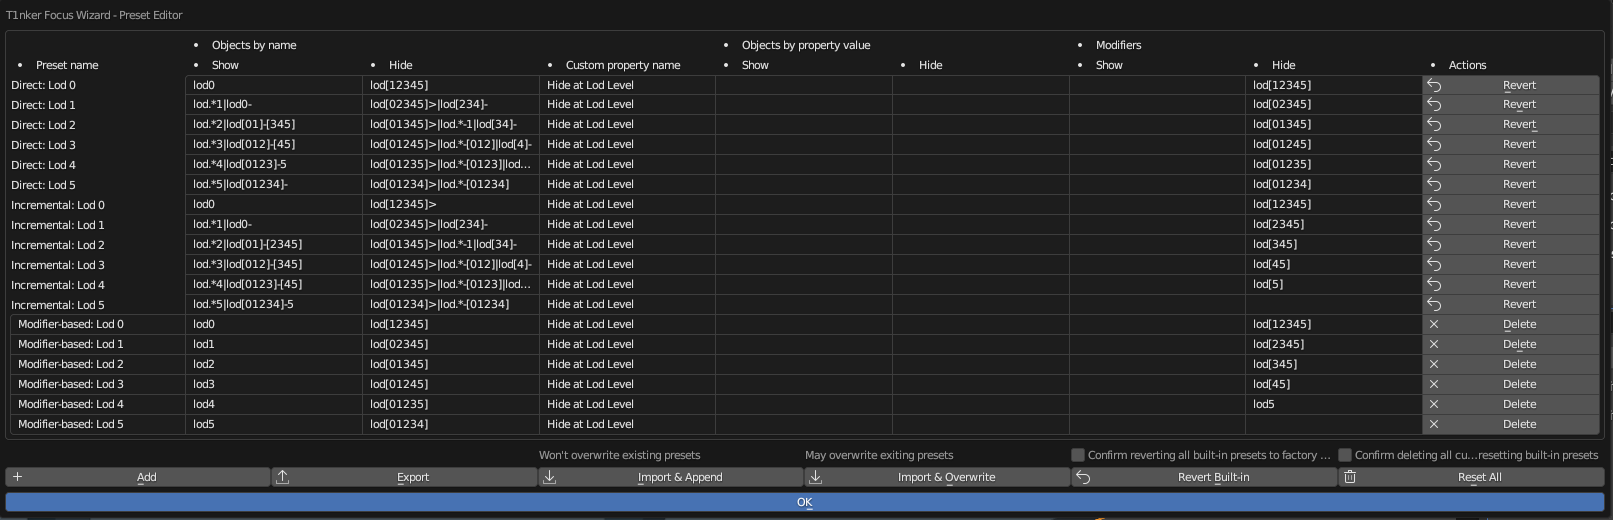
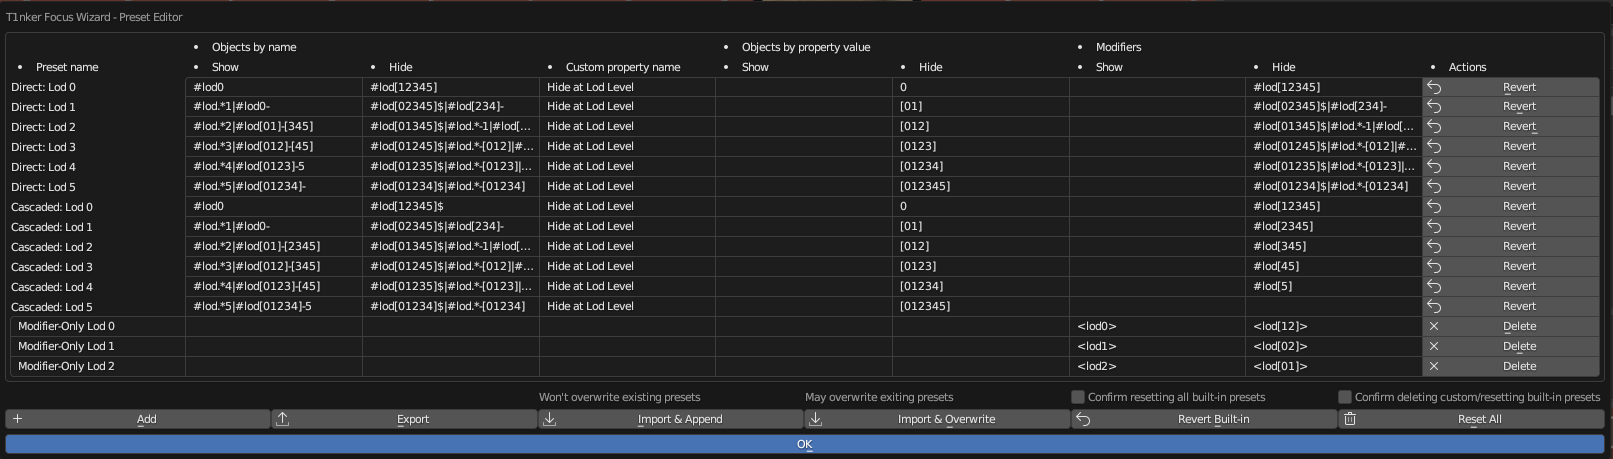
Direct modifier rules enchanced, docs updated

diff --git a/presetManager.py b/presetManager.py
@@ -59,6 +59,7 @@ from typing import List, Set
 import bpy
 import json
 import os.path
+import copy
 from bpy.props import StringProperty, BoolProperty, EnumProperty, CollectionProperty
 from bpy.types import Context, Panel, Operator, AddonPreferences, PropertyGroup, PointerProperty
 
@@ -347,7 +348,7 @@ class PresetDefinition:
     def __init__(
         self,
         builtIn: bool = True,
-        name: str = "", 
+        presetName: str = "", 
         oShow: str = "", 
         oHide: str = "", 
         pName: str = "", 
@@ -360,7 +361,7 @@ class PresetDefinition:
         Args:
             builtIn (bool, optional): Tells whether this preset is a built-in or custom one. The name of built-in presets cannot be changed. Built-in presets can be reverted to factory state. Defaults to True.
             
-            name (str, optional): The (unique) name of the preset. If the name is not unique, behavior is up to Blender. It may choose the first object with the same name, but don't take it as granted and don't rely on this assumptions. Defaults to "".
+            presetName (str, optional): The (unique) name of the preset. If the name is not unique, behavior is up to Blender. It may choose the first object with the same name, but don't take it as granted and don't rely on this assumptions. Defaults to "".
             
             oShow (str, optional): Objects within the scope and with a name matching this pattern will be made visible. An empty string means all objects in the scope will be made visible. Defaults to "".
             
@@ -379,7 +380,7 @@ class PresetDefinition:
         # Keep doc strings in one line as VS Code only displays one line of text for an argument
         
         self.builtIn = builtIn
-        self.name = name
+        self.presetName = presetName
         self.objectsToShowByName = oShow
         self.objectsToHideByName = oHide
         self.propertyName = pName
@@ -505,21 +506,22 @@ class T1NKER_OT_FocusWizardPresetOperations(Operator):
             
     presetDefinitions = [
         # Presets with direct reference to lod levels (modifier set for lod n shall not be visible for other lod levels)
-        # Expects lod levels be indicated in the form of /lodn/ or /lodn-m/
-        PresetDefinition(name = "Direct: Lod 0", oShow = "lod0",                    oHide = "lod[12345]",                        pName = "Hide at Lod Level",    pShow = "",     pHide = "0",        mShow = "",     mHide = "lod[12345]"),
-        PresetDefinition(name = "Direct: Lod 1", oShow = "lod.*1|lod0-",            oHide = "lod[02345]>|lod[234]-",             pName = "Hide at Lod Level",    pShow = "",     pHide = "[01]",     mShow = "",     mHide = "lod[02345]"),
-        PresetDefinition(name = "Direct: Lod 2", oShow = "lod.*2|lod[01]-[345]",    oHide = "lod[01345]>|lod.*-1|lod[34]-",      pName = "Hide at Lod Level",    pShow = "",     pHide = "[012]",    mShow = "",     mHide = "lod[01345]"),
-        PresetDefinition(name = "Direct: Lod 3", oShow = "lod.*3|lod[012]-[45]",    oHide = "lod[01245]>|lod.*-[012]|lod[4]-",   pName = "Hide at Lod Level",    pShow = "",     pHide = "[0123]",   mShow = "",     mHide = "lod[01245]"),
-        PresetDefinition(name = "Direct: Lod 4", oShow = "lod.*4|lod[0123]-5",      oHide = "lod[01235]>|lod.*-[0123]|lod[4]-",  pName = "Hide at Lod Level",    pShow = "",     pHide = "[01234]",  mShow = "",     mHide = "lod[01235]"),
-        PresetDefinition(name = "Direct: Lod 5", oShow = "lod.*5|lod[01234]-",      oHide = "lod[01234]>|lod.*-[01234]",         pName = "Hide at Lod Level",    pShow = "",     pHide = "[012345]", mShow = "",     mHide = "lod[01234]"),
+        # Expects lod levels be indicated in the form of #lodn or #lodn-m as trailing parts of names for objects, and #lodn for modifiers
+        PresetDefinition(presetName = "Direct: Lod 0", oShow = "#lod0",                   oHide = "#lod[12345]",                          pName = "Hide at Lod Level",    pShow = "",     pHide = "0",        mShow = "",     mHide = "#lod[12345]"),
+        PresetDefinition(presetName = "Direct: Lod 1", oShow = "#lod.*1|#lod0-",          oHide = "#lod[02345]$|#lod[234]-",              pName = "Hide at Lod Level",    pShow = "",     pHide = "[01]",     mShow = "",     mHide = "#lod[02345]$|#lod[234]-"),
+        PresetDefinition(presetName = "Direct: Lod 2", oShow = "#lod.*2|#lod[01]-[345]",  oHide = "#lod[01345]$|#lod.*-1|#lod[34]-",      pName = "Hide at Lod Level",    pShow = "",     pHide = "[012]",    mShow = "",     mHide = "#lod[01345]$|#lod.*-1|#lod[34]-"),
+        PresetDefinition(presetName = "Direct: Lod 3", oShow = "#lod.*3|#lod[012]-[45]",  oHide = "#lod[01245]$|#lod.*-[012]|#lod[4]-",   pName = "Hide at Lod Level",    pShow = "",     pHide = "[0123]",   mShow = "",     mHide = "#lod[01245]$|#lod.*-[012]|#lod[4]-"),
+        PresetDefinition(presetName = "Direct: Lod 4", oShow = "#lod.*4|#lod[0123]-5",    oHide = "#lod[01235]$|#lod.*-[0123]|#lod[4]-",  pName = "Hide at Lod Level",    pShow = "",     pHide = "[01234]",  mShow = "",     mHide = "#lod[01235]$|#lod.*-[0123]|#lod[4]-"),
+        PresetDefinition(presetName = "Direct: Lod 5", oShow = "#lod.*5|#lod[01234]-",    oHide = "#lod[01234]$|#lod.*-[01234]",          pName = "Hide at Lod Level",    pShow = "",     pHide = "[012345]", mShow = "",     mHide = "#lod[01234]$|#lod.*-[01234]"),
         
-        # Presets with incremental reference to lod levels (modifier set for lod n shall be visible for n and n+ levels)
-        PresetDefinition(name = "Incremental: Lod 0", oShow = "lod0",                     oHide = "lod[12345]>",                       pName = "Hide at Lod Level",    pShow = "",     pHide = "0",        mShow = "",  mHide = "lod[12345]"),
-        PresetDefinition(name = "Incremental: Lod 1", oShow = "lod.*1|lod0-",             oHide = "lod[02345]>|lod[234]-",             pName = "Hide at Lod Level",    pShow = "",     pHide = "[01]",     mShow = "",  mHide = "lod[2345]"),
-        PresetDefinition(name = "Incremental: Lod 2", oShow = "lod.*2|lod[01]-[2345]",    oHide = "lod[01345]>|lod.*-1|lod[34]-",      pName = "Hide at Lod Level",    pShow = "",     pHide = "[012]",    mShow = "",  mHide = "lod[345]"),
-        PresetDefinition(name = "Incremental: Lod 3", oShow = "lod.*3|lod[012]-[345]",    oHide = "lod[01245]>|lod.*-[012]|lod[4]-",   pName = "Hide at Lod Level",    pShow = "",     pHide = "[0123]",   mShow = "",  mHide = "lod[45]"),
-        PresetDefinition(name = "Incremental: Lod 4", oShow = "lod.*4|lod[0123]-[45]",    oHide = "lod[01235]>|lod.*-[0123]|lod[4]-",  pName = "Hide at Lod Level",    pShow = "",     pHide = "[01234]",  mShow = "",  mHide = "lod[5]"),
-        PresetDefinition(name = "Incremental: Lod 5", oShow = "lod.*5|lod[01234]-5",      oHide = "lod[01234]>|lod.*-[01234]",         pName = "Hide at Lod Level",    pShow = "",     pHide = "[012345]", mShow = "",  mHide = ""),
+        # Presets with cascaded reference to lod levels (modifier set for lod n shall be visible for n and n+ levels)
+        # Expects lod levels be indicated in the form of #lodn or #lodn-m as trailing parts of names for objects, and #lodn for modifiers
+        PresetDefinition(presetName = "Cascaded: Lod 0", oShow = "#lod0",                     oHide = "#lod[12345]$",                         pName = "Hide at Lod Level",    pShow = "",     pHide = "0",        mShow = "",  mHide = "#lod[12345]"),
+        PresetDefinition(presetName = "Cascaded: Lod 1", oShow = "#lod.*1|#lod0-",            oHide = "#lod[02345]$|#lod[234]-",              pName = "Hide at Lod Level",    pShow = "",     pHide = "[01]",     mShow = "",  mHide = "#lod[2345]"),
+        PresetDefinition(presetName = "Cascaded: Lod 2", oShow = "#lod.*2|#lod[01]-[2345]",   oHide = "#lod[01345]$|#lod.*-1|#lod[34]-",      pName = "Hide at Lod Level",    pShow = "",     pHide = "[012]",    mShow = "",  mHide = "#lod[345]"),
+        PresetDefinition(presetName = "Cascaded: Lod 3", oShow = "#lod.*3|#lod[012]-[345]",   oHide = "#lod[01245]$|#lod.*-[012]|#lod[4]-",   pName = "Hide at Lod Level",    pShow = "",     pHide = "[0123]",   mShow = "",  mHide = "#lod[45]"),
+        PresetDefinition(presetName = "Cascaded: Lod 4", oShow = "#lod.*4|#lod[0123]-[45]",   oHide = "#lod[01235]$|#lod.*-[0123]|#lod[4]-",  pName = "Hide at Lod Level",    pShow = "",     pHide = "[01234]",  mShow = "",  mHide = "#lod[5]"),
+        PresetDefinition(presetName = "Cascaded: Lod 5", oShow = "#lod.*5|#lod[01234]-5",     oHide = "#lod[01234]$|#lod.*-[01234]",          pName = "Hide at Lod Level",    pShow = "",     pHide = "[012345]", mShow = "",  mHide = ""),
     ]
     """
     Definitions of the built-in presets in the form of `PresetDefinition`.
@@ -590,8 +592,24 @@ class T1NKER_OT_FocusWizardPresetOperations(Operator):
         
         presets = context.scene.t1nkrFocusWizardSettings.presets
         
-        # Save custom presets
-        customPresets = [p for p in presets if p.builtIn == False]
+        # Save custom presets. Cloning with copy.copy() doesn't work, but we need a copy or presets.clear()
+        # a bit later deletes items 
+        customPresets = []
+        for customPreset in [preset for preset in presets if preset.builtIn == False]:
+            preset = PresetDefinition( 
+                builtIn = False,                
+                presetName = customPreset.presetName,
+                oShow = customPreset.objectsToShowByName,
+                oHide = customPreset.objectsToHideByName,
+                pName = customPreset.propertyName,
+                pShow = customPreset.propertyValueForShowing,
+                pHide = customPreset.propertyValueForHiding,
+                mShow = customPreset.modifiersToShow,
+                mHide = customPreset.modifiersToHide   
+            )
+            
+            customPresets.append(preset)
+        
         
         # Drop everything from the preset list
         presets.clear()                
@@ -600,7 +618,7 @@ class T1NKER_OT_FocusWizardPresetOperations(Operator):
         for presetDefinition in T1NKER_OT_FocusWizardPresetOperations.presetDefinitions:                    
             preset = presets.add()
             preset.builtIn = True
-            preset.presetName = presetDefinition.name
+            preset.presetName = presetDefinition.presetName
             preset.objectsToShowByName = presetDefinition.objectsToShowByName
             preset.objectsToHideByName = presetDefinition.objectsToHideByName
             preset.propertyName = presetDefinition.propertyName
@@ -656,7 +674,7 @@ class T1NKER_OT_FocusWizardPresetOperations(Operator):
         for presetDefinition in T1NKER_OT_FocusWizardPresetOperations.presetDefinitions:                    
             if presetToRevert.presetName == presetDefinition.presetName:
                 presetToRevert.builtIn = True
-                presetToRevert.presetName = presetDefinition.name
+                presetToRevert.presetName = presetDefinition.presetName
                 presetToRevert.objectsToShowByName = presetDefinition.objectsToShowByName
                 presetToRevert.objectsToHideByName = presetDefinition.objectsToHideByName
                 presetToRevert.propertyName = presetDefinition.propertyName
@@ -702,7 +720,7 @@ class T1NKER_OT_FocusWizardPresetOperations(Operator):
         for preset in presetsProperty:
             presetDef = PresetDefinition(
                 builtIn=preset.builtIn,
-                name=preset.presetName,
+                presetName=preset.presetName,
                 oShow=preset.objectsToShowByName,
                 oHide=preset.objectsToHideByName,
                 pName=preset.propertyName,
@@ -740,7 +758,7 @@ class T1NKER_OT_FocusWizardPresetOperations(Operator):
         # Drop items with no name (as the name is the key for the preset selector enum)
         for ix, importedPreset in enumerate(importedPresets):            
             # Check if there's a valid name set and ignore if there's not
-            if not "name" in importedPreset or len(str.strip(importedPreset["name"])) == 0:
+            if not "presetName" in importedPreset or len(str.strip(importedPreset["presetName"])) == 0:
                 self.report({'WARNING'}, f"Preset in object {ix} of the file has no valid name; skipping item.")
                 continue
         
@@ -749,13 +767,13 @@ class T1NKER_OT_FocusWizardPresetOperations(Operator):
             # Skip importing presets matching the name of an existing preset
             for preset in self.settings.presets:
                 for importedPreset in importedPresets:
-                    if "name" in importedPreset and importedPreset["name"] == preset.presetName:
+                    if "presetName" in importedPreset and importedPreset["presetName"] == preset.presetName:
                         importedPresets.remove(importedPreset)            
         else: # do not append but replace
             # Remove the preset with the same name if there's any
             for importedPreset in importedPresets:                        
                 for ix, preset in enumerate(self.settings.presets):
-                    if "name" in importedPreset and importedPreset["name"] == preset.presetName:
+                    if "presetName" in importedPreset and importedPreset["presetName"] == preset.presetName:
                         self.settings.presets.remove(ix)
                         break
         
@@ -763,7 +781,7 @@ class T1NKER_OT_FocusWizardPresetOperations(Operator):
         for ix, importedPreset in enumerate(importedPresets):
             preset = self.settings.presets.add()
             preset.builtIn                  = importedPreset["builtIn"]                 if "builtIn" in importedPreset                  else False
-            preset.presetName               = importedPreset["name"]                    # exists for sure, no-names has been already dropped
+            preset.presetName               = importedPreset["presetName"]              # exists for sure, no-names has been already dropped
             preset.objectsToShowByName      = importedPreset["objectsToShow"]           if "objectsToShow" in importedPreset            else ""
             preset.objectsToHideByName      = importedPreset["objectsToHide"]           if "objectsToHide" in importedPreset            else ""
             preset.propertyName             = importedPreset["propertyName"]            if "propertyName" in importedPreset             else ""

diff --git a/readme.md b/readme.md
@@ -237,7 +237,7 @@ Names of _Direct Tagging presets_ start with **Direct**, and includes 6 presets 
 
 These presets assume you organize your model elements and modifiers like this:
 
-* You add a tag `lodp` or `lodm-n` to the name of each of your objects, where:
+* You add a tag `#lodp` or `#lodm-n` to the end of the name of each of your objects, where:
   
   * `p` is a number between `0` and `5`,
 
@@ -247,41 +247,45 @@ These presets assume you organize your model elements and modifiers like this:
 
   * `m < n`.
   
-  * The tags may be, but are not required to be preceded by or enclosed in some kinds of symbols. For example you can add these tags like `#lod1` or `<lod2-4>`.
-
-    |![A screenshot of Blender's Outliner with object names tagged](art/organizing-model--tagging-objects-2.png)|
+    |![A screenshot of Blender's Outliner with object names tagged](art/organizing-model--tagging-objects-for-built-in-presets.png)|
     |:--:|
     |_Objects tagged_|
 
   * Objects without such a tag will never be displayed (enabling you to keep helper objects or templates together with your actual model elements).
     > Note: If you only want to tag objects requiring multiple versions for multiple levels of details, clear the `Show` rules. Then all objects will be made visible, and only those _not_ belonging to the selected lod level will be made hidden.
   
-  * For each lod level `p`, only objects tagged with `lodp` or `lodm-n` are made visible, where `m <= p` and `n >= p`. For example, if you want to show lod1 objects, and you have an object tagged as `#lod1` and another tagged as `<lod0-2>`, both will be visible.
+  * For each lod level `p`, only objects tagged with `#lodp` or `#lodm-n` are made visible, where `m <= p` and `n >= p`. For example, if you want to show lod1 objects, and you have an object tagged as `#lod1` and another tagged as `#lod0-2`, both will be visible.
 
 * You can add the [custom object property](#rules-based-on-custom-object-properties) (for example, using [T1nk-R Custom Object Property Manager](https://github.com/gusztavj/Custom-Object-Property-Manager), another member of the **T1nk-R Utilities**, designed to effectively manage custom object properties) named `Hide at Lod Level` to each of your objects which you want to hide on and below a specific LOD level, and assign the first level (a number between `0` to `5`) where the object is no more required. For example, if you want to hide an object at lod 3 (and lod 4 and lod 5), assign the value `3`.
   
   * For each lod level `p`, an object featuring the `Hide at Lod Level` property will be hidden if the value of the property is `q`, where `p <= q <= 5`. Objects not having this property or having other values will not be hidden.
 
-* You add a tag `lodn` to the name of modifiers which belong to a specific lod level.
+* You add a tag `#lodp` or `#lodm-n` to the end of the name of modifiers which belong to one or more specific lod level(s), where:
   
-  * If you select level `p`, modifiers tagged with `lodq`, where `q != p` will all be made hidden.
+  * `p` is a number between `0` and `5`,
+
+  * `m` is a number between `0` and `4` and
+  
+  * `n` is a number between `1` and `5` and
+
+  * `m < n`.
+  
+  * If you select level `p`, modifiers tagged with `#lodq`, where `q != p` will all be made hidden.
   
   * Modifiers without a lod tag will always be shown.
 
-  * Tags may be, but are not required to be preceded by or enclosed in some kinds of symbols. For example you can add these tags like `#lod1` or `<lod2>`.
-
 ##### Example for Modifier Visibility with Direct Tagging
 
-|![A screenshot of Blender's Properties editor with the Modifiers tab open to show tagged modifiers](art/organizing-model--tagging-modifiers.png)|
+|![A screenshot of Blender's Properties editor with the Modifiers tab open to show tagged modifiers](art/organizing-model--tagging-modifiers-for-built-in-presets.png)|
 |:--:|
 |_Modifiers tagged_|
 
-In the example above: 
+In the example above:
 
-* **Decimate [lod1]** will only be visible when you switch to lod 1
-* **Decimate [lod2]** will only be visible when you switch to lod 2
+* **Decimate #lod1** will only be visible when you switch to lod 1
+* **Decimate #lod2** will only be visible when you switch to lod 2
 * The **Array** modifier will always be visible as won't match any hiding rules, since it doesn't contain `lodp` where `p` is a number between 0 and 5.
-* If you switch to lod 3, and provided that the object is not completely hidden on lod 3, both **Decimate** operators will be hidden (as they will match the `lod[01245]` modifier hiding rule of the **Direct: Lod 3** preset you selected). Using direct tagging, you need to assign decimate or other geometry simplification modifiers for each lod level if you want to get a less detailed version of the object.
+* If you switch to lod 3, and provided that the object is not completely hidden on lod 3, both **Decimate** operators will be hidden (as they will match the `#lod[01245]$` branch of the `#lod[01245]$|#lod.*-[012]|#lod[4]-` modifier hiding rule of the **Direct: Lod 3** preset you selected). Using direct tagging, you need to assign decimate or other geometry simplification modifiers for each lod level if you want to get a less detailed version of the object.
 
 #### Presets for Cascaded Tagging  
 
@@ -289,7 +293,7 @@ Names of _Cascaded Tagging presets_ start with **Cascaded**, and includes 6 pres
 
 These presets assume you organize your model elements and modifiers like this:
 
-* (Same as with [Direct Tagging](#presets-for-direct-tagging)) You add a tag `lodp` or `lodm-n` to the name of each of your objects, where:
+* (Same as with [Direct Tagging](#presets-for-direct-tagging)) You add a tag `#lodp` or `#lodm-n` to the end of the name of each of your objects, where:
   
   * `p` is a number between `0` and `5`,
 
@@ -299,8 +303,6 @@ These presets assume you organize your model elements and modifiers like this:
   
   * `m < n`.
   
-  * The tags may be, but are not required to be preceded by or enclosed in some kinds of symbols. For example you can add these tags like `#lod1` or `<lod2-4>`.
-
     |![A screenshot of Blender's Outliner with object names tagged](art/organizing-model--tagging-objects-2.png)|
     |:--:|
     |_Objects tagged_|
@@ -308,13 +310,21 @@ These presets assume you organize your model elements and modifiers like this:
   * Objects without such a tag will never be displayed (enabling you to keep helper objects or templates together with your actual model elements).
     > Note: If you only want to tag objects requiring multiple versions for multiple levels of details, clear the `Show` rules. Then all objects will be made visible, and only those _not_ belonging to the selected lod level will be made hidden.
   
-  * For each lod level `p`, only objects tagged with `lodp` or `lodm-n` are made visible, where `m <= p` and `n >= p`. For example, if you want to show lod1 objects, and you have an object tagged as `#lod1` and another tagged as `<lod0-2>`, both will be visible.
+  * For each lod level `p`, only objects tagged with `#lodp` or `#lodm-n` are made visible, where `m <= p` and `n >= p`. For example, if you want to show lod1 objects, and you have an object tagged as `#lod1` and another tagged as `#lod0-2`, both will be visible.
 
 * (Same as with [Direct Tagging](#presets-for-direct-tagging)) You can add the [custom object property](#rules-based-on-custom-object-properties) (for example, using [T1nk-R Custom Object Property Manager](https://github.com/gusztavj/Custom-Object-Property-Manager), another member of the **T1nk-R Utilities**, designed to effectively manage custom object properties) named `Hide at Lod Level` to each of your objects which you want to hide on and below a specific LOD level, and assign the first level (a number between `0` to `5`) where the object is no more required. For example, if you want to hide an object at lod 3 (and lod 4 and lod 5), assign the value `3`.
   
   * For each lod level `p`, an object featuring the `Hide at Lod Level` property will be hidden if the value of the property is `q`, where `p <= q <= 5`. Objects not having this property or having other values will not be hidden.
 
-* You add a tag `lodn` to the name of modifiers which belong to a specific lod level _and less detailed levels_.
+* You add a tag `#lodp` or `#lodm-n` to the end of the name of modifiers which belong to one or more specific lod level(s)  _and less detailed levels_, where:
+  
+  * `p` is a number between `0` and `5`,
+
+  * `m` is a number between `0` and `4` and
+  
+  * `n` is a number between `1` and `5` and
+
+  * `m < n`.
   
   * If you select level `p`, modifiers tagged with `lodq`, where `q >= p` will all be made hidden, while modifiers tagged with `lodz`, where `z < p` will all be made visible.
 
@@ -322,20 +332,18 @@ These presets assume you organize your model elements and modifiers like this:
   
   * Modifiers without a lod tag will always be shown.
 
-  * Tags may be, but are not required to be preceded by or enclosed in some kinds of symbols. For example you can add these tags like `#lod1` or `<lod2>`.
-
 ##### Example for Modifier Visibility with Cascaded Tagging
 
-|![A screenshot of Blender's Properties editor with the Modifiers tab open to show tagged modifiers](art/organizing-model--tagging-modifiers.png)|
+|![A screenshot of Blender's Properties editor with the Modifiers tab open to show tagged modifiers](art/organizing-model--tagging-modifiers-for-built-in-presets.png)|
 |:--:|
 |_Modifiers tagged_|
 
-In the example above: 
+In the example above:
 
-* **Decimate [lod1]** will be visible when you switch to lod `p` where `p >= 1`.
-* **Decimate [lod2]** will be visible when you switch to lod `p` where `p >= 2`.
+* **Decimate #lod1** will be visible when you switch to lod `p` where `p >= 1`.
+* **Decimate #lod2** will be visible when you switch to lod `p` where `p >= 2`.
 * The **Array** modifier will always be visible as it won't match any hiding rules, since it doesn't contain `lodp` where `p` is a number between 0 and 5.
-* If you switch to lod 3, and provided that the object is not completely hidden on lod 3, both **Decimate** operators will apply (the key difference with the direct approact), as they will _not_ match the `lod[45]` modifier hiding rule of the **Cascaded: Lod 3** preset you selected. Using cascaded tagging, you _don't_ need to assign decimate or other geometry simplification modifiers for each lod level if you don't want to further reduce geometry.
+* If you switch to lod 3, and provided that the object is not completely hidden on lod 3, both **Decimate** operators will apply (the key difference with the direct approach), as they will _not_ match the `#lod[45]` modifier hiding rule of the **Cascaded: Lod 3** preset you selected. Using cascaded tagging, you _don't_ need to assign decimate or other geometry simplification modifiers for each lod level if you don't want to further reduce geometry.
 
 #### Choosing Between Built-In Presets
 
